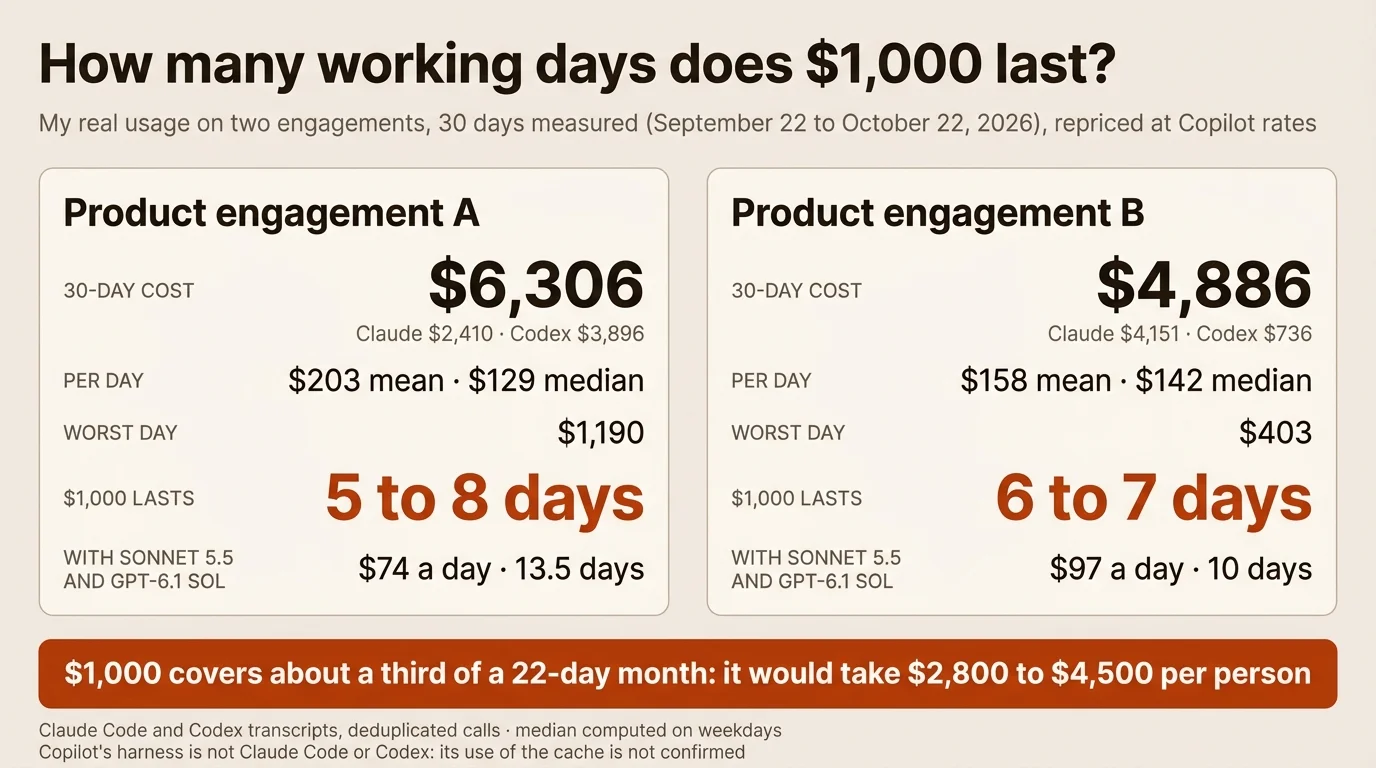
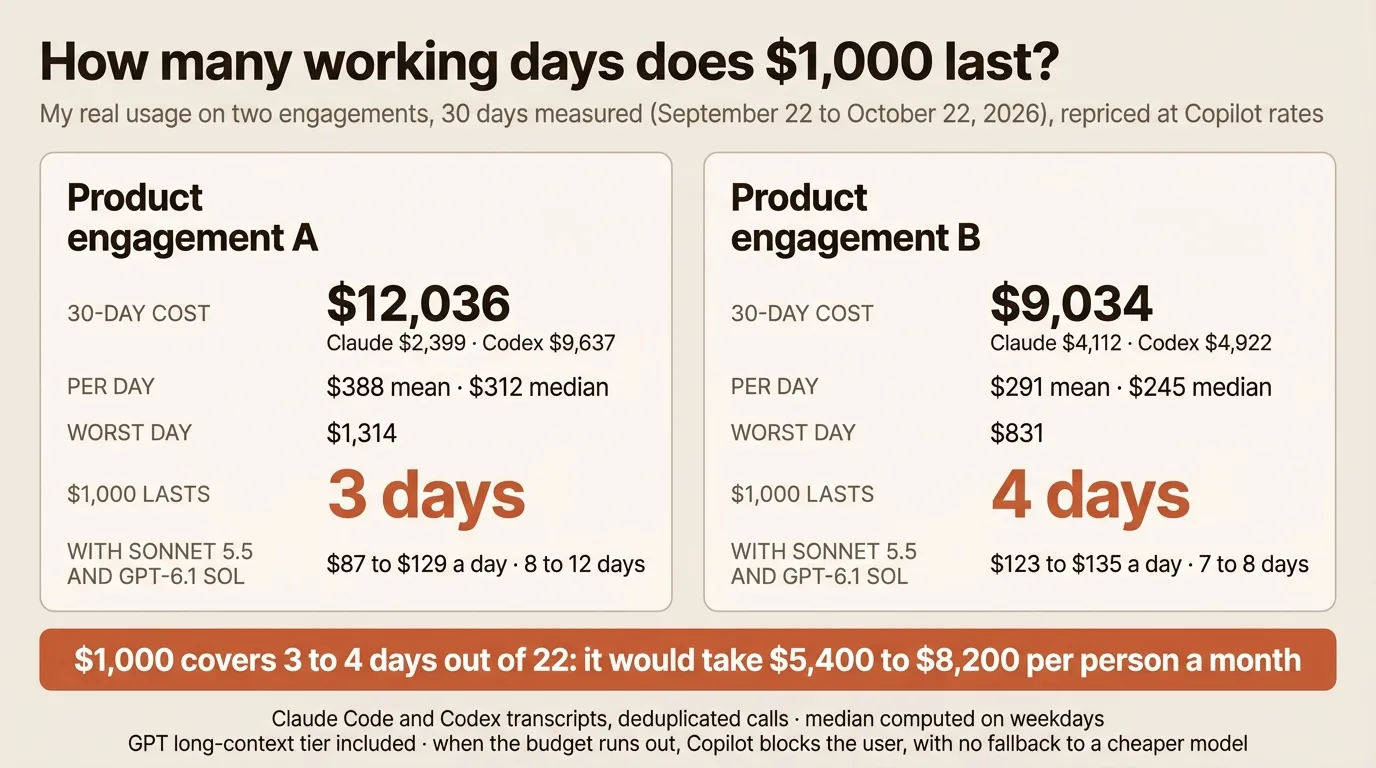
docs: correct the Copilot credit figures in the local inference worked example
The 30-day repricing missed compressed Codex rollouts and the GPT
long-context tier. The two engagements cost $12,036 and $9,034, not
$6,306 and $4,886, so $1,000 lasts about 3 to 4 working days. Add the
verified billing rules: seat allowance, pooled credits, hard stop with
no cheaper-model fallback, taxes, and GitHub's documented caching.

diff --git a/guide/ecosystem/local-vs-cloud-inference.md b/guide/ecosystem/local-vs-cloud-inference.md
@@ -728,7 +728,7 @@ Three practical consequences:
 
 This section is my own case, as the author of this guide, written while I am deciding. It applies the method of this page to one real workload instead of a generic one. Treat the conclusion as one data point, not a recommendation for your setup.
 
-**The workload.** My local Claude Code and Codex logs for the seven days to October 21, 2026 add up to about 511 million uncached input and output tokens, plus 18.3 billion cache reads (a 97.5% cache-hit rate). Counting a session as active when it logged an event in the previous five minutes, I ran 26 agents at the same time at the 95th percentile and 67 at the peak. Averaged over its active minutes, an implementation session needs about 108 tok/s of uncached prompt and 15 tok/s of output. These figures come from my own logs and are not published; the method (deduplicated `usage` per Claude message, cumulative `token_count` deltas for Codex) is reproducible on yours.
+**The workload.** My local Claude Code and Codex logs for the seven days to October 21, 2026 add up to about 511 million uncached input and output tokens, plus 18.3 billion cache reads (a 97.5% cache-hit rate). Counting a session as active when it logged an event in the previous five minutes, I ran 26 agents at the same time at the 95th percentile and 67 at the peak. Measured the same way since mid-August 2026, leaving out one workflow fan-out whose agents lived about two seconds, the highest peaks were 42 main sessions (September 5) and 89 agents (September 27), so that week is typical rather than the maximum. Averaged over its active minutes, an implementation session needs about 108 tok/s of uncached prompt and 15 tok/s of output. These figures come from my own logs and are not published; the method (deduplicated `usage` per Claude message, cumulative `token_count` deltas for Codex) is reproducible on yours.
 
 **The constraint.** A client engagement asks for 5 to 10 parallel sessions with everything kept local, on a Unix system, against a budget of about €1,000 a month that was planned for API usage. I already own a MacBook Pro M5 Max with 128 GB, so the question is what to buy alongside it.
 
@@ -772,7 +772,9 @@ Licenses were read on each model card on October 22, 2026, except Flash-Next's, 
 
 ### What $1,000 a month of Copilot credits buys
 
-The same client also gives each person $1,000 a month of GitHub Copilot credits, so the cloud side deserves the same measured treatment. Copilot Business and Enterprise include a per-user allowance of GitHub AI Credits; one credit is $0.01 and each model is billed per million tokens ([GitHub, models and pricing](https://docs.github.com/en/copilot/reference/copilot-billing/models-and-pricing), checked October 22, 2026). Claude models cost the same as Anthropic's list prices: Opus 5.5 is $4 input, $0.20 cached input, $5 cache write and $20 output; Sonnet 5.5 is $2 / $0.10 / $2.50 / $10. GPT-6.1 Sol matches Sonnet, and GPT-6 Astra costs $10 input and $50 output.
+The same client also gives each person $1,000 a month of GitHub Copilot credits, so the cloud side deserves the same measured treatment. Copilot Business costs $19 per user per month and includes 1,900 GitHub AI Credits; Enterprise costs $39 and includes 3,900. Included credits go into one pool for the whole billing entity, one credit is $0.01, and each model is billed per million tokens ([GitHub, models and pricing](https://docs.github.com/en/copilot/reference/copilot-billing/models-and-pricing); [seats and billing cycles](https://docs.github.com/en/copilot/concepts/billing-and-usage/organizations-and-enterprises/seats-and-billing-cycles), both checked October 22, 2026). Claude models cost the same as Anthropic's list prices: Opus 5.5 is $4 input, $0.20 cached input, $5 cache write and $20 output; Sonnet 5.5 is $2 / $0.10 / $2.50 / $10. GPT-6.1 Sol matches Sonnet, and GPT-6 Astra costs $10 input and $50 output. Above 272K input tokens in one request, GPT models double their input and cache prices and raise output by half; Haiku 5.5 costs five times more above 100K.
+
+**What happens at the limit.** Usage past the pooled allowance is billed at the same rates, and paid usage is on by default. When a user's budget runs out, GitHub halts that user's credit-consuming Copilot features, even if the organization pool still has credits, and "there is no automatic fallback to lower-cost models". Code completions and next edit suggestions are not billed in credits ([GitHub, usage-based billing for organizations and enterprises](https://docs.github.com/en/copilot/concepts/billing-and-usage/organizations-and-enterprises/billing), checked October 22, 2026). Prices are in US dollars; GitHub's [general terms](https://github.com/customer-terms/general-terms) (section 8.3) leave taxes to the customer, and the Copilot docs do not say how VAT applies to an EU business. A $1,000 user budget is therefore a hard stop, not a target.
 
 [![What $1,000 of Copilot credits buys at a measured agentic pace: 874 hours on Haiku 5.5, 329 on Sonnet 5.5 or GPT-6.1 Sol, 219 on GPT-6 Sol, 164 on Opus 5.5 and 44 on GPT-6 Astra, against 176 hours for one full-time session.](../images/local-vs-cloud-copilot-hours.webp)](../images/local-vs-cloud-copilot-hours.webp)
 
@@ -787,11 +789,13 @@ The same client also gives each person $1,000 a month of GitHub Copilot credits,
 | Opus 5.5 | $6.09 | 164 h | 0.9 |
 | GPT-6 Astra | $22.88 | 44 h | 0.25 |
 
-In raw tokens, $1,000 buys 250 million Opus 5.5 input tokens or 50 million output tokens, twice that on Sonnet 5.5 or GPT Sol. At my mix it covers about 2.6 billion Opus tokens, of which only 64 million are uncached input and 9 million are output. Haiku 5.5 is priced at its long-context tier because agent sessions pass 100K tokens of context; below that it is five times cheaper.
+In raw tokens, $1,000 buys 250 million Opus 5.5 input tokens or 50 million output tokens, twice that on Sonnet 5.5 or GPT Sol. At my mix it covers about 2.6 billion Opus tokens, of which only 64 million are uncached input and 9 million are output. Haiku 5.5 is priced at its long-context tier because agent sessions pass 100K tokens of context; below that it is five times cheaper. The GPT rows use the default tier: in my last 30 days, 6.5% of Codex calls crossed 272K input tokens and would cost more.
 
-[![How many working days $1,000 lasts on two measured engagements: 5 to 8 days on engagement A ($6,306 over 30 days) and 6 to 7 days on engagement B ($4,886), so a 22-day month would take $2,800 to $4,500 per person.](../images/local-vs-cloud-copilot-days.webp)](../images/local-vs-cloud-copilot-days.webp)
+[![How many working days $1,000 lasts on two measured engagements: about 3 days on engagement A ($12,036 over 30 days) and 4 days on engagement B ($9,034), so a 22-day month would take $5,400 to $8,200 per person.](../images/local-vs-cloud-copilot-days.webp)](../images/local-vs-cloud-copilot-days.webp)
 
-**On real projects.** Repricing 30 days of my Claude Code and Codex logs (September 22 to October 22, 2026, deduplicated calls) at Copilot rates gives $6,306 for one product engagement and $4,886 for another. Per day, that is $203 mean and $129 weekday median for the first, with a worst day at $1,190 driven by GPT-6 Astra in Codex, and $158 mean and $142 median for the second. $1,000 lasts 5 to 8 working days on the first and 6 to 7 on the second. Moving everything to Sonnet 5.5 and GPT-6.1 Sol stretches it to 13.5 and 10 days. At my current pace, a 22-day month would need $2,800 to $4,500 per person. Older models in those logs are priced at Anthropic's list rates, and Codex's long-context tier above 272K tokens is not applied. The biggest unknown is the harness: Copilot's agent is not Claude Code or Codex, and I found no confirmation of how much it caches. Without caching, the bill rises sharply.
+**On real projects.** Repricing 30 days of my Claude Code and Codex logs (September 22 to October 22, 2026, deduplicated calls, compressed Codex archives included) at Copilot rates, with the long-context tiers applied, gives $12,036 for one product engagement and $9,034 for another. Codex accounts for 80% and 54% of those totals. Per day, that is $388 mean and $312 weekday median for the first, with a worst day at $1,314, and $291 mean and $245 median for the second. $1,000 lasts about 3 working days on the first and 4 on the second. Moving everything to Sonnet 5.5 and GPT-6.1 Sol stretches it to 8 to 12 days and 7 to 8 days. At my current pace, a 22-day month would need $5,400 to $8,200 per person, or $1,900 to $3,000 on that cheaper pair. A first version of this section, published the same day, read only uncompressed Codex logs and reported $6,306 and $4,886.
+
+Older models that Copilot no longer lists are priced at Anthropic's list rates. Codex logs report no cache writes: if GitHub bills uncached GPT input as cache writes ($2.50 instead of $2.00 per million), the Codex share rises by up to a quarter of its uncached-input cost. The biggest unknown is the harness: Copilot's agent is not Claude Code or Codex. GitHub states that it uses prompt caching for Anthropic models, that caches expire after 24 hours of inactivity for OpenAI models and one hour for most others, and that switching models, reasoning effort or tools mid-session sends the whole context again as fresh input; it publishes no hit rate ([GitHub, optimize AI usage](https://docs.github.com/en/copilot/tutorials/optimize-ai-usage); [model hosting](https://docs.github.com/en/copilot/reference/ai-models/model-hosting)). Without caching, the bill rises sharply.
 
 [![Copilot credits or a Claude Max subscription: $1,000 of Copilot credits a month against Claude Max 5x at $100 a month, worth about $5,725 at Opus 5.5 API prices, and Claude Max 20x at $200, worth about $11,726.](../images/local-vs-cloud-copilot-vs-max.webp)](../images/local-vs-cloud-copilot-vs-max.webp)
 

diff --git a/CHANGELOG.md b/CHANGELOG.md
@@ -6,6 +6,8 @@ The format is based on [Keep a Changelog](https://keepachangelog.com/en/1.0.0/).
 
 ## [Unreleased]
 
+- **Copilot credit figures corrected in the local inference worked example** (`guide/ecosystem/local-vs-cloud-inference.md#what-1000-a-month-of-copilot-credits-buys`): the 30-day repricing had read only uncompressed Codex logs and missed the compressed rollouts of September 22 to October 13, 2026. Recomputed with them and with GitHub's long-context tiers (GPT models above 272K input tokens, Haiku 5.5 above 100K), the two engagements cost $12,036 and $9,034 instead of $6,306 and $4,886, $1,000 lasts about 3 and 4 working days instead of 5 to 8 and 6 to 7, and a 22-day month needs $5,400 to $8,200 per person instead of $2,800 to $4,500. Add the verified billing facts: Copilot Business at $19 per user with 1,900 pooled credits (Enterprise $39, 3,900), overage at the same rates, a user blocked with no cheaper-model fallback when a budget runs out, free code completions, US dollar prices with taxes left to the customer, and GitHub's documented prompt caching and cache expiry. Note that 6.5% of Codex calls crossed 272K input tokens, that Codex logs report no cache writes, and the measured concurrency records since mid-August (42 main sessions, 89 agents). Regenerate `guide/images/local-vs-cloud-copilot-days.webp` and extend the `local_vs_cloud_copilot_credits` comment in both `reference.yaml` copies.
+
 - **Open-weight model choice in the local inference worked example** (`guide/ecosystem/local-vs-cloud-inference.md#worked-example-what-i-am-weighing-in-october-2026`): add the Vals Terminal-Bench 4.0 same-harness ranking (October 19, 2026), where the best open-weight models that fit two GB10s, GLM-5.3-Flash (37.37%) and DeepSeek-V4.1-Flash-1017 (31.82%), sit about 28 points under Claude Opus 5.5 (65.15%), and a table of candidates with size, license read on each model card, hardware fit and score source. Replace Qwen3.8 Flash-Next as the GB10 model: its NVFP4 checkpoint is 126 GiB with a 47.7 GiB n-gram table, so one Spark runs it only with the table on NVMe (SGLang cookbook), and the 44.6 tok/s-per-stream report is no longer relied on. Add published Qwen3.8-27B concurrency recipes on one GB10 (15 to 18 tok/s per session at eight sessions), refocus the pilot on Qwen3.8-27B and Laguna S 2.1 with GLM-5.3-Flash through an API, and regenerate `guide/images/local-vs-cloud-worked-example-models.webp` with the corrected GB10 card. Update the worked-example comment in both `reference.yaml` copies.
 
 - **Interview before the spec, "grill me"** (`guide/workflows/spec-first.md#interview-before-the-spec-grill-me`): add a section separating the three practices that share the name: Boris Cherny's gatekeeper prompt on a finished diff, the official "Let Claude interview you" prompt (quoted from the Claude Code best practices, with its fresh-session advice), and Matt Pocock's `grill-me` skill (first text, recommended answers, facts looked up by the agent, frontier rounds, confirmation gate). List the failure modes the author documents, the advice to leave plan mode off, and the one-line `CLAUDE.md` opt-out for users who prefer one question at a time. State that no controlled study was found as of October 22, 2026, and cite ClarifyGPT and HumanEvalComm figures only as evidence for the premise. Correct the Boris Cherny thread date from Feb 2026 to Jan 2026 in the three citations of `guide/ultimate-guide.md` (status posted 2026-01-31 UTC). Add the evaluation `docs/resource-evaluations/grill-me-interview-patterns.md` (4/5), its index row, and a `grill_me_interview_patterns` key in both `reference.yaml` copies.
